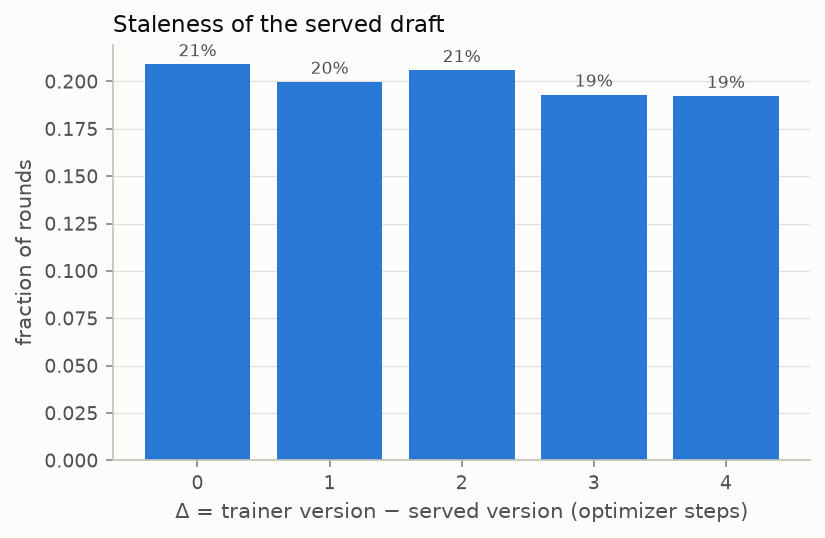
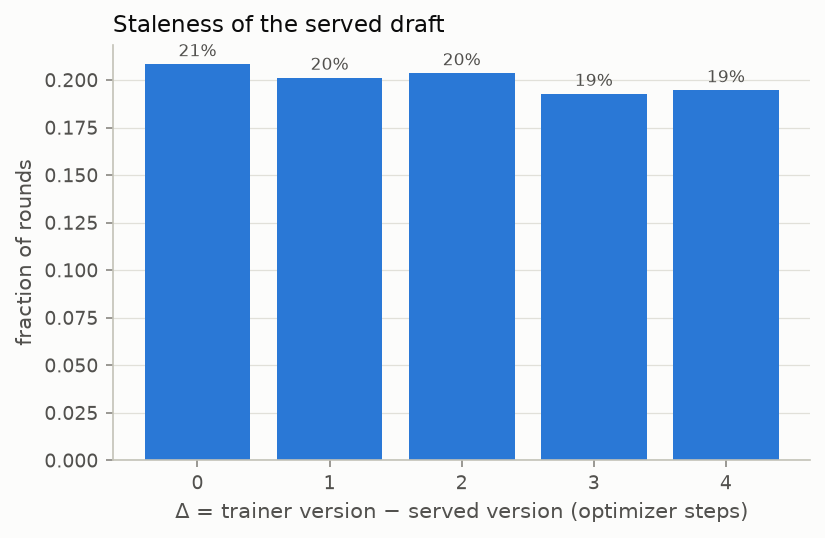
[BP-07] Update metrics, bench and plots to the fp32 run

diff --git a/mini_aurora/eval/README.md b/mini_aurora/eval/README.md
@@ -31,26 +31,28 @@ Tracks #16. Branch: `bp/07-eval-metrics`.
 - [x] **5. Results** on BP-06's 300-request day-0 run (below).
 
 ```bash
-python -m mini_aurora.eval.bench outputs/online/day0_sync_300      # c and target-only tok/s; GPU otherwise idle
-python -m mini_aurora.eval.plot outputs/online/day0_sync_300       # metrics.csv, summary.json and the plots
-python -m mini_aurora.eval.metrics outputs/online/day0_sync_300 --window 25    # metrics only
+python -m mini_aurora.eval.bench outputs/online/day0_sync_300_fp32    # c and target-only tok/s; GPU otherwise idle
+python -m mini_aurora.eval.plot outputs/online/day0_sync_300_fp32     # metrics.csv, summary.json and the plots
+python -m mini_aurora.eval.metrics outputs/online/day0_sync_300_fp32 --window 25    # metrics only
 python -m pytest -q mini_aurora/tests/test_eval.py
 ```
 
 ## BP-06 day-0 run: 300 mixed requests
 
-Run settings in `mini_aurora/online/README.md` (MacBook Air, sync, bf16 target / served draft, K = 3, 150 optimizer
-steps, publish every 5). Bench (bf16, 5 prompts): target step 24.2 ms, draft step 3.0 ms, **c = 0.123**, verify
-pass 29.0 ms, target-only **36.6 tok/s**.
+Run settings in `mini_aurora/online/README.md` (MacBook Air, sync, **fp32** target / served draft as in BP-05, K = 3,
+150 optimizer steps, publish every 5, `--check`: **300/300 lossless**). Bench (fp32, 5 prompts): target step
+27.5 ms, draft step 2.7 ms, **c = 0.099**, verify pass 30.0 ms, target-only 34.6 tok/s. The tok/s comparison below
+uses the target-only speed `--check` measured on every request (31.8 tok/s on average), under the same conditions.
 
-| | Requests | τ̄ | α1 / α2 / α3 | Acceptance rate | tok/s | vs target-only | Estimated speed-up | Δ mean / max |
-|---|---|---|---|---|---|---|---|---|
-| chat | 104 | 0.094 | 0.091 / 0.003 / 0.000 | 0.032 | 12.4 | ×0.34 | ×0.80 | 2.07 / 4 |
-| code | 100 | 0.142 | 0.136 / 0.006 / 0.001 | 0.048 | 17.5 | ×0.48 | ×0.84 | 1.92 / 4 |
-| math | 96 | 0.233 | 0.211 / 0.019 / 0.003 | 0.078 | 18.2 | ×0.50 | ×0.90 | 1.88 / 4 |
-| **all** | **300** | **0.154** | 0.144 / 0.009 / 0.001 | 0.051 | 15.5 | ×0.42 | ×0.84 | 1.96 / 4 |
+| | Requests | τ̄ | α1 / α2 / α3 | Acceptance rate | tok/s | vs target-only | Estimated speed-up | Δ mean / max | Lossless |
+|---|---|---|---|---|---|---|---|---|---|
+| chat | 104 | 0.090 | 0.087 / 0.003 / 0.000 | 0.030 | 13.6 | ×0.45 | ×0.84 | 2.08 / 4 | 104/104 |
+| code | 100 | 0.144 | 0.137 / 0.006 / 0.000 | 0.048 | 19.1 | ×0.58 | ×0.88 | 1.92 / 4 | 100/100 |
+| math | 96 | 0.227 | 0.204 / 0.019 / 0.003 | 0.076 | 19.7 | ×0.61 | ×0.95 | 1.89 / 4 | 96/96 |
+| **all** | **300** | **0.152** | 0.141 / 0.009 / 0.001 | 0.051 | 16.9 | ×0.53 | ×0.89 | 1.96 / 4 | **300/300** |
 
-τ̄ over the first 50 requests 0.038, over the last 50 **0.247** (estimated speed-up ×0.91 at that τ̄).
+τ̄ over the first 50 requests 0.039, over the last 50 **0.246** (estimated speed-up ×0.96 at that τ̄). An earlier
+bf16 run with the same settings gave the same curve (0.038 → 0.247, 0.154 overall).
 
 ![Rolling τ̄](figures/day0_sync_300/rolling_tau.png)
 
@@ -58,7 +60,7 @@ Rolling τ̄ rises over the whole run and is still rising at request 300. Math a
 
 ![Per-position acceptance](figures/day0_sync_300/alpha.png)
 
-Almost all acceptance is the first guess: α1 goes 0.038 → 0.216 between the first and last 50 requests, α2 only
+Almost all acceptance is the first guess: α1 goes 0.038 → 0.215 between the first and last 50 requests, α2 only
 reaches 0.028. Training accuracy (below) shows positions 2 and 3 learning, but they are still at 0.16 / 0.11.
 
 ![Training loss and accuracy](figures/day0_sync_300/loss.png)
@@ -70,9 +72,12 @@ uniformly.
 
 ![Throughput](figures/day0_sync_300/tokens_per_s.png)
 
-**Measured vs estimated speed-up.** The estimate (×0.84) counts a round as one target step plus K draft steps;
-measured, a round takes ~74 ms ≈ 2.7 target-only steps (×0.42). The formula leaves out the verify pass over K + 1
-tokens (29 ms vs a 24 ms decode step), the cache-free drafter re-reading a context that grows through the request
-(the bench measures it at prompt length, 38–96 tokens, against 125 + 114 tokens on average in the run), and
-per-round overhead outside the two models. τ̄ is the hardware-independent number; a drafter KV cache is the main
-lever for the measured one.
+Speculative and target-only throughput both drop ~12% over the hour (33.2 → 29.3 tok/s target-only), the fanless
+Air slowing under sustained load; their ratio stays at 0.53–0.54.
+
+**Measured vs estimated speed-up.** The estimate (×0.89) counts a round as one target step plus K draft steps;
+measured, a round takes ~68 ms ≈ 2.2 target-only steps (×0.53). The formula leaves out the verify pass over K + 1
+tokens (30.0 ms vs a 27.5 ms decode step), the cache-free drafter re-reading a context that grows through the
+request (the bench measures it at prompt length, 38–96 tokens, against 125 + 114 tokens on average in the run),
+and per-round overhead outside the two models. τ̄ is the hardware-independent number; a drafter KV cache is the
+main lever for the measured one.
